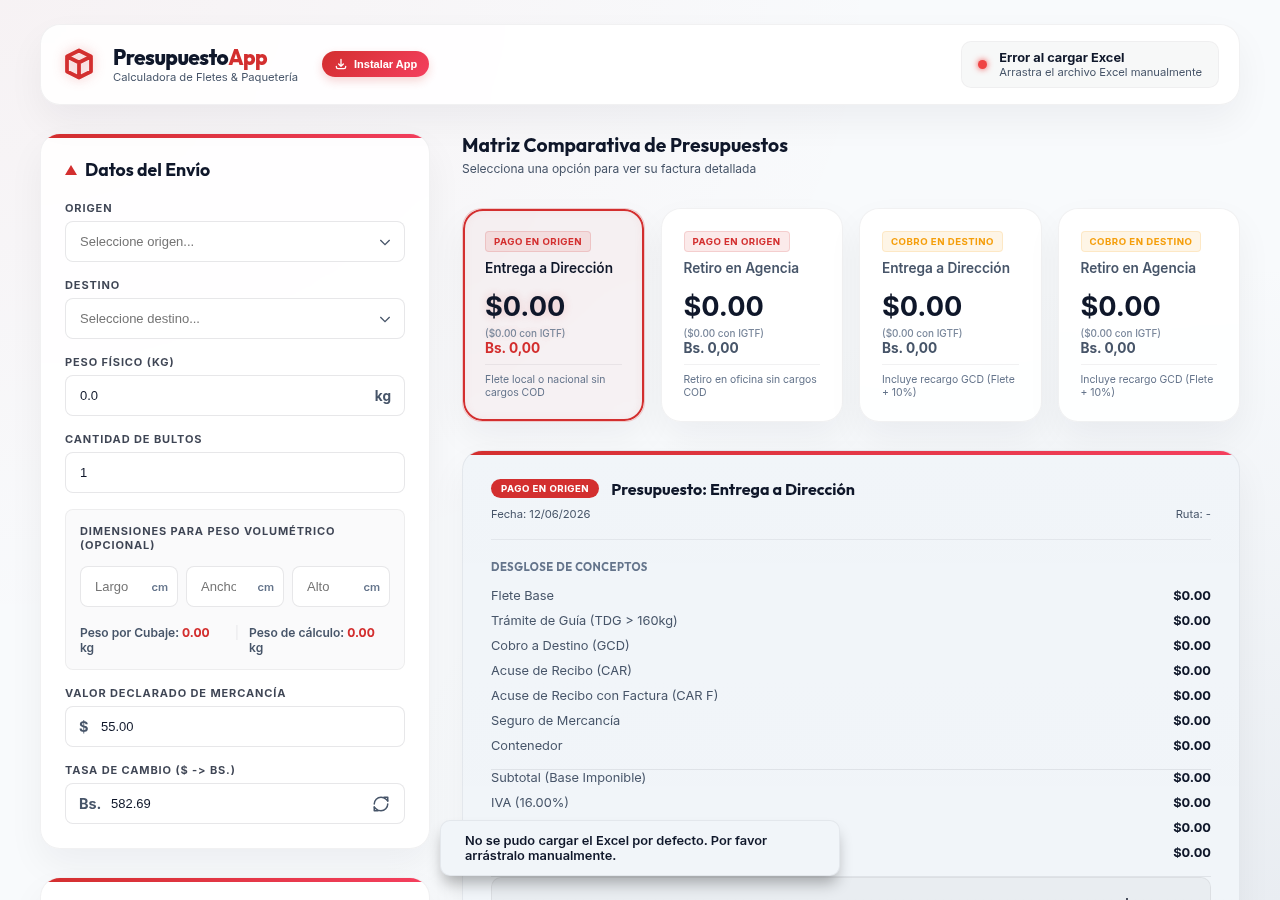
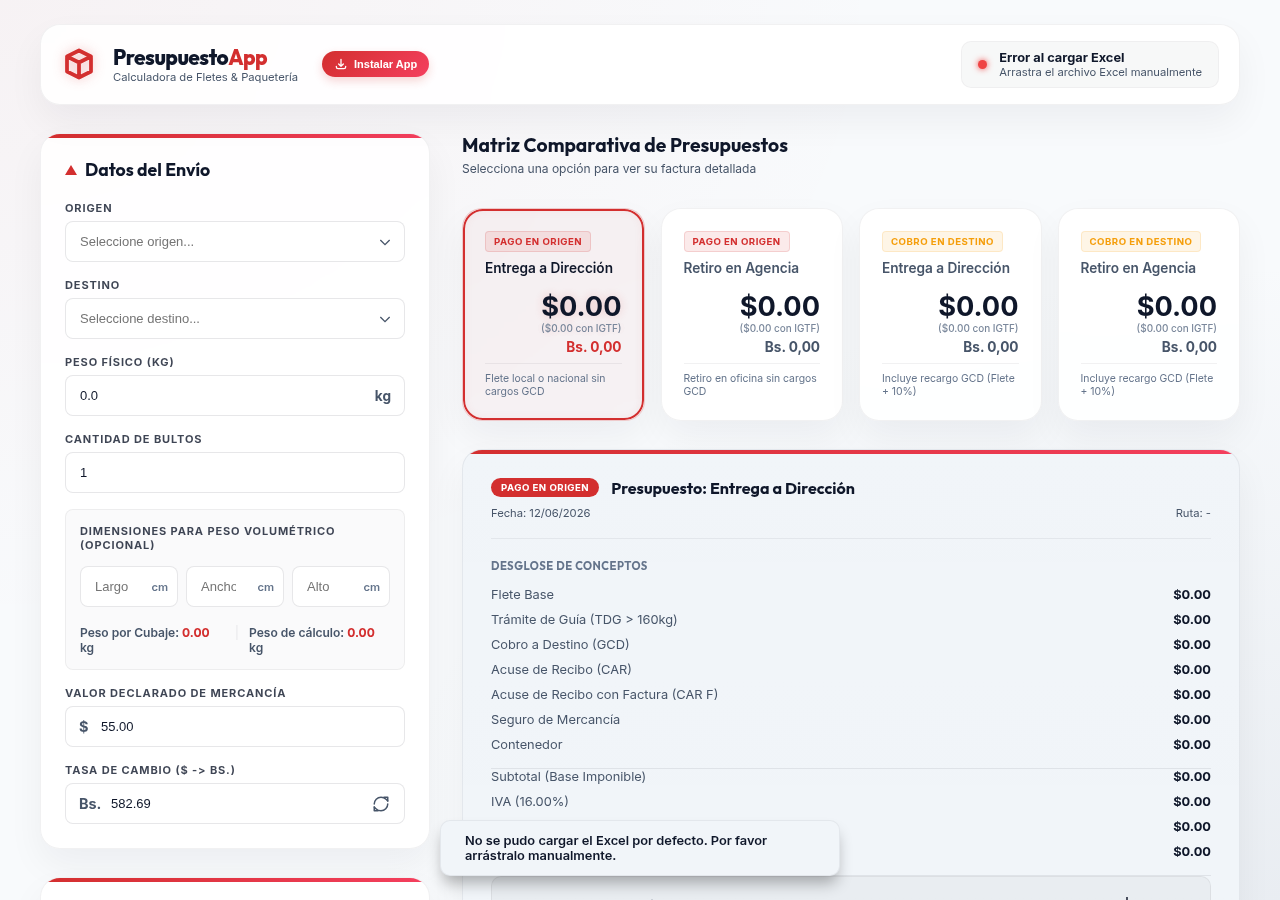
Corregir impresión del recibo, colocar fecha sobre ruta, agregar nota legal y ajustar espaciados de sección

diff --git a/style.css b/style.css
@@ -1241,9 +1241,16 @@ input:disabled {
 
 .receipt-meta {
     display: flex;
-    justify-content: space-between;
-    font-size: 0.7rem;
+    flex-direction: column;
+    gap: 4px;
+    font-size: 0.72rem;
     color: var(--text-secondary);
+}
+
+#receiptDate {
+    font-weight: 700;
+    font-size: 0.78rem;
+    color: var(--receipt-text);
 }
 
 .receipt-section {
@@ -1252,6 +1259,13 @@ input:disabled {
     gap: 10px;
     border-bottom: 1px solid var(--receipt-line);
     padding-bottom: 16px;
+    margin-bottom: 16px;
+}
+
+.receipt-section:last-of-type {
+    border-bottom: none;
+    padding-bottom: 0;
+    margin-bottom: 4px;
 }
 
 .receipt-section h4 {
@@ -1366,6 +1380,16 @@ input:disabled {
     opacity: 0.85;
 }
 
+.receipt-print-note {
+    font-size: 0.68rem;
+    color: var(--text-muted);
+    line-height: 1.35;
+    border-top: 1px solid var(--border-color);
+    padding-top: 12px;
+    margin-top: 12px;
+    font-style: italic;
+}
+
 /* Receipt Actions - Mobile first (stacked) */
 .receipt-actions {
     display: grid;
@@ -1441,12 +1465,19 @@ input:disabled {
         padding: 0 !important;
     }
     
-    .app-container, .app-header, .control-panel, .results-header, .matrix-grid, .receipt-actions, #toast {
+    .app-header, .control-panel, .results-header, .matrix-grid, .receipt-actions, #toast, .btn-pwa-install {
         display: none !important;
     }
     
-    .results-panel {
+    .app-container, .app-workspace, .results-panel {
+        display: block !important;
         width: 100% !important;
+        max-width: 100% !important;
+        margin: 0 !important;
+        padding: 0 !important;
+        border: none !important;
+        box-shadow: none !important;
+        background: transparent !important;
     }
     
     .receipt-card {
@@ -1477,7 +1508,7 @@ input:disabled {
         color: black !important;
     }
     
-    .receipt-meta, .receipt-item, .receipt-section h4 {
+    .receipt-meta, .receipt-item, .receipt-section h4, .receipt-print-note {
         color: #334155 !important;
     }
     

diff --git a/main.js b/main.js
@@ -920,6 +920,7 @@ function clearMatrixPrices(hideRouteCard = true) {
     document.getElementById('itemTotalUSD').innerHTML = `$0.00<span class="igtf-subtext">($0.00 con IGTF)</span>`;
     document.getElementById('itemTotalBs').textContent = 'Bs. 0,00';
     document.getElementById('receiptRoute').textContent = 'Ruta: -';
+    document.getElementById('printNoteDate').textContent = '-';
 }
 
 // Render detailed invoice breakdown for selected option
@@ -988,6 +989,10 @@ function renderDetailedReceipt() {
     
     document.getElementById('itemTotalUSD').innerHTML = `$${res.totalUSDSinIgtf.toFixed(2)}<span class="igtf-subtext">($${res.totalUSD.toFixed(2)} con IGTF)</span>`;
     document.getElementById('itemTotalBs').textContent = `Bs. ${formatBs(res.totalBs)}`;
+    
+    // Set legal note date
+    const printDate = appState.excelDate || new Date().toLocaleDateString('es-VE');
+    document.getElementById('printNoteDate').textContent = printDate;
 }
 
 // Toggle row visibility in receipt

diff --git a/index.html b/index.html
@@ -386,6 +386,11 @@
                                 * Excluye IGTF (solo aplica para pagos en divisas)
                             </div>
                         </div>
+
+                        <!-- Print Note / Legal Disclaimer -->
+                        <div class="receipt-print-note" id="receiptPrintNote">
+                            <p><strong>Nota de validez:</strong> Este presupuesto es de carácter referencial y válido únicamente por el día de hoy (<span id="printNoteDate">-</span>). El precio real del servicio es el arrojado por la guía de carga oficial elaborada por el sistema autorizado de la empresa.</p>
+                        </div>
                     </div>
 
                     <!-- Action buttons -->

diff --git a/sw.js b/sw.js
@@ -1,4 +1,4 @@
-const CACHE_NAME = 'presupuestoapp-v7';
+const CACHE_NAME = 'presupuestoapp-v8';
 const ASSETS = [
     './',
     'index.html',
